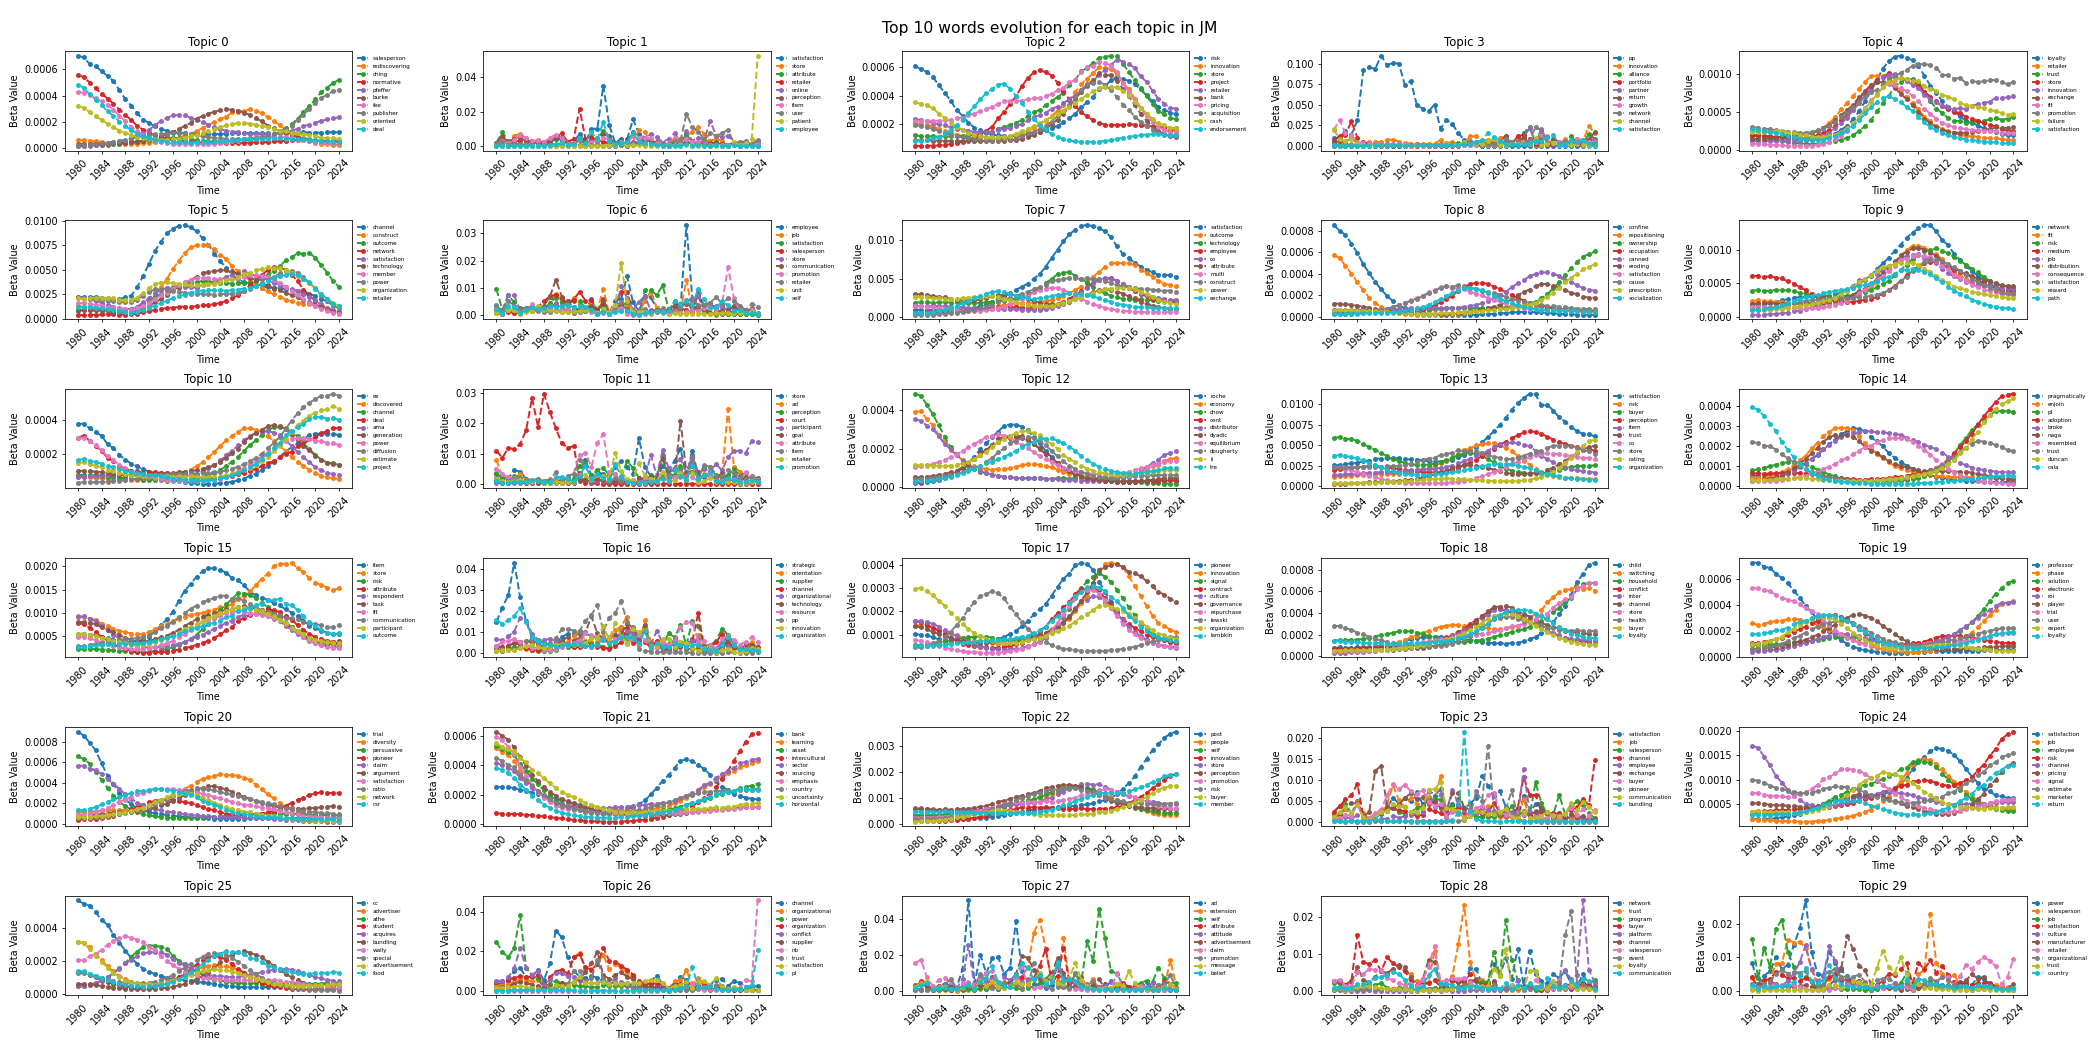
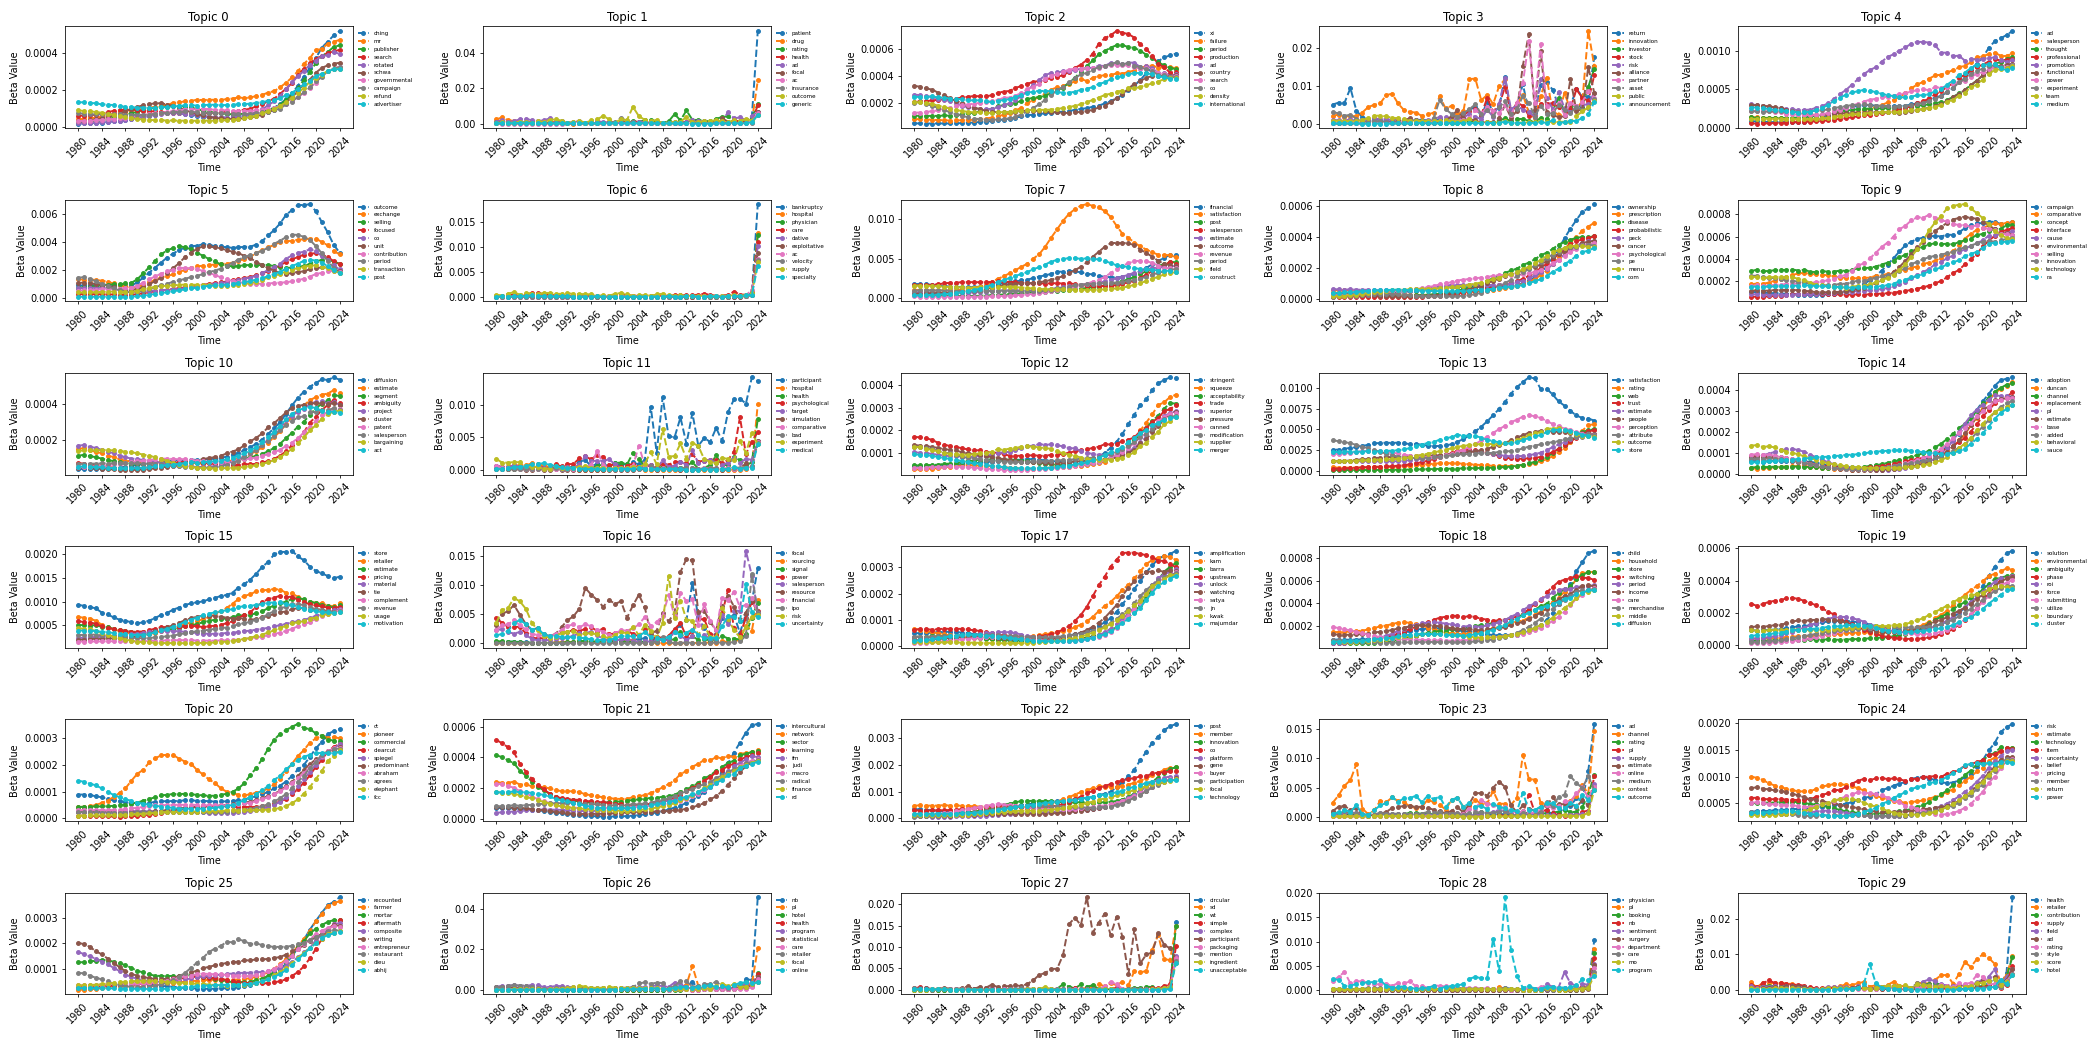
added documentation

Changed region(s): [[0.0, 0.3657, 0.9905, 0.9752], [0.0, 0.0, 0.9905, 0.3657], [0.2786, 0.0, 0.3095, 0.061]]

diff --git a/better_plot_words.py b/better_plot_words.py
@@ -1,3 +1,21 @@
+#******************************************************************#
+# better_plot_words.py
+# This script experimentally plots the "top words" for each topic in
+# the DETM model based on different metrics defined in top_words().
+# It is intended for experimentation and visualization purposes.
+
+# USAGE: 
+# ||$ python better_plot_words.py JM
+# ||$ python better_plot_words.py JMR
+
+# Where [option] is a number and defined as follows:
+# [option] = 1: top words at the last time point (default)
+# [option] = 2: average beta values across all timestamps
+# [option] = 3: max value word at each timestamp
+# [option] = 4: experimental TBD
+# [option] = 5: most changed word (beginning vs end)
+# [option] = 6: most changed word (cumulative)
+#******************************************************************#
 import scipy.io 
 import matplotlib.pyplot as plt 
 import data 
@@ -5,8 +23,11 @@ import pickle
 import numpy as np 
 import sys
 
-def top_words(gamma, num_words):
-    option = 2
+def top_words(gamma, num_words, x):
+    if x not in list(range(1, 7)):
+        option = x
+    else:
+        option = 1
     if option == 1:
         # top words at the last time point
         top_word_indices = gamma[-1, :].argsort()[-num_words:][::-1]  
@@ -41,12 +62,11 @@ def top_words(gamma, num_words):
         cumulative_change = np.sum(np.abs(np.diff(gamma, axis=0)), axis=0)  # Shape: (V,)
         top_word_indices = cumulative_change.argsort()[-num_words:][::-1]
 
-
-
     return top_word_indices
 
 
 arg = sys.argv[1]
+arg2 = sys.argv[2]
 
 use = 'JM' if arg == 'JM' else 'JMR'
 
@@ -97,7 +117,7 @@ for k in range(num_topics):
     colors = plt.cm.get_cmap('tab10', num_words)  # Use a colormap for better visualization
 
     #top_word_indices = gamma[-1, :].argsort()[-num_words:][::-1]  # Get indices of top words at the last time point
-    top_word_indices = top_words(gamma, num_words)
+    top_word_indices = top_words(gamma, num_words, int(arg2))
 
     for i, word_idx in enumerate(top_word_indices):
         ax.plot(range(T), gamma[:, word_idx], color=colors(i), lw=2, linestyle='--', marker='o', markersize=4, label=vocab[word_idx])

diff --git a/eval.py b/eval.py
@@ -1,3 +1,15 @@
+#******************************************************************#
+# eval.py
+# Adapted from original code from DETM
+# Extracted the functionality for evaluating the DETM model from
+# main.py to avoid misclicks and to streamline the process.
+# Modifications required to "fix" generating the topic quality metric.
+
+# USAGE:
+# ||$ python eval.py --dataset jmr  --data_path data/JMR/split_paragraph_False --emb_path embeddings/JMR/skipgram_emb_300d.txt --theta_act relu --bow_norm 1 --batch_size 10 --min_df 10 --num_topics 30  --lr 0.001 --epochs 400 --load_from results/detm_jmr_K_30_Htheta_800_Optim_adam_Clip_0.0_ThetaAct_relu_Lr_0.001_Bsz_10_RhoSize_300_L_3_minDF_10_trainEmbeddings_1 --min_df 10  --mode eval
+# ||$ python eval.py --dataset jm  --data_path data/JM/split_paragraph_False --emb_path embeddings/JM/skipgram_emb_300d.txt --theta_act relu --bow_norm 1 --batch_size 10 --min_df 10 --num_topics 30  --lr 0.001 --epochs 400 --load_from results/detm_jm_K_30_Htheta_800_Optim_adam_Clip_0.0_ThetaAct_relu_Lr_0.001_Bsz_10_RhoSize_300_L_3_minDF_10_trainEmbeddings_1 --min_df 10  --mode eval
+# COMMAND CHANGES DEPENDING ON THE RESULTS USED
+#******************************************************************#
 #/usr/bin/python
 
 from __future__ import print_function

diff --git a/topic_travel.py b/topic_travel.py
@@ -1,13 +1,38 @@
+#******************************************************************#
+# topic_travel.py
+# This script is currently used to find the topic that moved the
+# most and the least in the DETM model for the JM and JMR datasets.
+
+# USAGE:
+# ||$ python topic_travel.py --corpus [corpus] --method [method]
+
+# Where [corpus] is the dataset to use (JM or JMR)
+# Where [method] is the distance metric to use (cosine or euclidean)  
+#******************************************************************#
 import numpy as np
 from scipy.spatial.distance import euclidean, cosine
 import scipy.io
 import matplotlib.pyplot as plt
+import argparse
 
-# corp = 'JM'
-corp = 'JMR'
+CLI = argparse.ArgumentParser()
+CLI.add_argument(
+    "--corpus",
+    type=str,
+    default="JMR",
+    help="Corpus to use (JM or JMR)"
+)
+CLI.add_argument(  
+    "--method",
+    type=str,
+    default="cosine",
+    help="Method to use (cosine or euclidean)"
+)
 
-method = 'cosine'
-#method = 'euclidean'
+args = CLI.parse_args()
+corp = args.corpus
+method = args.method
+
 
 if corp == 'JMR':
     beta = scipy.io.loadmat('./results/detm_jmr_K_30_Htheta_800_Optim_adam_Clip_0.0_ThetaAct_relu_Lr_0.001_Bsz_10_RhoSize_300_L_3_minDF_10_trainEmbeddings_1_beta.mat')['values']

diff --git a/main.py b/main.py
@@ -1,3 +1,16 @@
+#******************************************************************#
+# main.py
+# By and large, the main.py script was left untouched from the 
+# original codebase. The only modifications were made to remove
+# UN or ACL specific intermediate visualizations and to ensure
+# compatibility with the newer environment.   
+
+# USAGE:
+# Known run command used as of the end of summer 2024: 
+# ||$ python main.py --dataset jm --data_path data/JM/split_paragraph_False --emb_path embeddings/JM/skipgram_emb_300d.txt --min_df 10 --num_topics 30  --lr 0.001 --epochs 400 --mode train --theta_act relu --bow_norm 1 --batch_size 10
+# ||$ python main.py --dataset jmr --data_path data/JMR/split_paragraph_False --emb_path embeddings/JMR/skipgram_emb_300d.txt --min_df 10 --num_topics 30  --lr 0.001 --epochs 400 --mode train --theta_act relu --bow_norm 1 --batch_size 10
+
+#******************************************************************#
 #/usr/bin/python
 
 from __future__ import print_function

diff --git a/list_topic_evo.py b/list_topic_evo.py
@@ -1,8 +1,24 @@
+#******************************************************************#
+# list_topic_evo.py
+# This script is used to list the top words for a given topic across
+# all timestamps in the DETM model.
 
+# USAGE: 
+# ||$ python list_topic_evo.py JM [topic_number] 
+# ||$ python list_topic_evo.py JMR [topic_number]
+
+# Where [topic_number] defines the topic to print.
+#******************************************************************#
 import scipy.io
 import data 
+import sys
 
 
+arg = sys.argv[1]
+if arg == 'JM':
+    corp = 'JM'
+elif arg == 'JMR':
+    corp = 'JMR'
 corp = 'JM'
 
 if corp == 'JMR':
@@ -20,9 +36,11 @@ vocab_size = len(vocab)
 num_words = 12
 times = range(44)
 num_topics = 50
-topic_to_print = 27  # Specify the topic number to print
+arg2 = sys.argv[2]
+topic_to_print = int(arg2) # Specify the topic number to print
 
 print(f"Printing topic {topic_to_print} of {corp}")
+x = sys.argv[3]
 
 for t in times:
     gamma = beta[topic_to_print, t, :]

diff --git a/plot_topics.py b/plot_topics.py
@@ -1,3 +1,18 @@
+#******************************************************************#
+# plot_topics.py
+# This script is used to visualize the topics in a DETM model. 
+
+# USAGE: 
+# ||$ python plot_topics.py --corpus [corpus] --dim [dimension] --list [topics]
+
+# Where [corpus] is the dataset to use
+# Where [dimension] is the dimensionality of the PCA plot (2D or 3D)
+# Where [topics] is a list of topics to plot (optional), if left empty, 
+# all topics in the model will be plotted.
+# By selecting a list of topics, the script will also plot the evolution
+# of the selected topics over time, it is not recommended to select more
+# than a handful of topics for this purpose.
+#******************************************************************#
 import scipy.io 
 import matplotlib.pyplot as plt 
 import data 

diff --git a/{DEP}plot_word_evo_test.py b/{DEP}plot_word_evo_test.py
@@ -1,3 +1,8 @@
+#******************************************************************#
+# plot_word_evo_test.py
+# This script was used to experiment with visualizations.
+# DEPRECATED
+#******************************************************************#
 import scipy.io 
 import matplotlib.pyplot as plt 
 import data 
@@ -68,4 +73,4 @@ ax2.set_xticklabels(timelist[0::10])
 ax2.set_title('Topic "Conflicts"', fontsize=12)
 
 plt.savefig('word_evolution.png')
-plt.show()ev
+plt.show()

diff --git a/plot_curated_jmr.py b/plot_curated_jmr.py
@@ -1,3 +1,12 @@
+#******************************************************************#
+# plot_curated_jmr.py    
+# This script visualizes the evolution of selected topics and words
+# in the DETM model for the JMR dataset to construct a insightful
+# visualization of the model's behavior.
+
+# USAGE: 
+# ||$ python plot_curated_jmr.py
+#******************************************************************#
 import scipy.io 
 import matplotlib.pyplot as plt 
 import data 

diff --git a/plot_curated_jm.py b/plot_curated_jm.py
@@ -1,3 +1,12 @@
+#******************************************************************#
+# plot_curated_jm.py    
+# This script visualizes the evolution of selected topics and words
+# in the DETM model for the JM dataset to construct a insightful
+# visualization of the model's behavior.
+
+# USAGE: 
+# ||$ python plot_curated_jm.py
+#******************************************************************#
 import scipy.io 
 import matplotlib.pyplot as plt 
 import data 

diff --git a/plot_all_jmr.py b/plot_all_jmr.py
@@ -1,3 +1,11 @@
+#******************************************************************#
+# plot_all_jmr.py
+# This script is used to plot the evolution of all topics and their 
+# top words in the DETM model for the JMR dataset. 
+
+# USAGE:
+# ||$ python plot_all_jmr.py
+#******************************************************************#
 import scipy.io 
 import matplotlib.pyplot as plt 
 import data 

diff --git a/plot_all_jm.py b/plot_all_jm.py
@@ -1,3 +1,11 @@
+#******************************************************************#
+# plot_all_jm.py
+# This script is used to plot the evolution of all topics and their 
+# top words in the DETM model for the JM dataset. 
+
+# USAGE:
+# ||$ python plot_all_jm.py
+#******************************************************************#
 import scipy.io 
 import matplotlib.pyplot as plt 
 import data 

diff --git a/detm.py b/detm.py
@@ -1,6 +1,8 @@
-"""This file defines a dynamic etm object.
-"""
-
+#******************************************************************#
+# detm.py
+# Original code from DETM
+# Minor modifications to use more updated device allocation calls.
+#******************************************************************#
 import torch
 import torch.nn.functional as F 
 import numpy as np 
